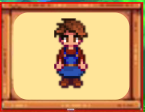
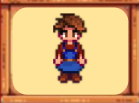
pushh

diff --git a/Harvest/src/mainMenu/ChooseGenderScreen.java b/Harvest/src/mainMenu/ChooseGenderScreen.java
@@ -8,18 +8,35 @@ import guiTeacher.userInterfaces.ClickableScreen;
 
 public class ChooseGenderScreen extends ClickableScreen implements Runnable {
 
+//	CustomImageButton
+	private Graphic girl;
+	private Graphic boy;
+	private Graphic back;
 
 	public ChooseGenderScreen(int width, int height) {
 		super(width, height);
 		Thread app = new Thread(this);
 		app.start();
 	}
+	
+//	public void resize(int w, int h){
+//		back.loadImages("resources/background.png", w, h);
+//		back.update();
+//		girl.setX(w/2-girl.getWidth());
+//		girl.setY(h/2-girl.getHeight());
+//		boy.setX(w/2+boy.getWidth());
+//		boy.setY(h/2+boy.getHeight());
+//		super.resize(w, h);
+//	}
 
 	@Override
 	public void initAllObjects(List<Visible> viewObjects) {
-		Graphic back = new Graphic(0,0,1,"resources/background.png");
+		back = new Graphic(0,0,getWidth(),getHeight,"resources/background.png");
 		viewObjects.add(back);
-
+		girl = new Graphic(350,350, 150,150,"resources/girlButton.png");
+		viewObjects.add(girl);
+		boy = new Graphic(550,350, 150,150,"resources/boyButton.png");
+		viewObjects.add(boy);
 	}
 
 	@Override

diff --git a/Harvest/src/mainMenu/MainMenu.java b/Harvest/src/mainMenu/MainMenu.java
@@ -12,11 +12,14 @@ public class MainMenu extends GUIApplication {
 	@Override
 	public void initScreen() {
 		MenuScreenLubna screen = new MenuScreenLubna(getWidth(), getHeight());
-		setScreen(screen);
+		ChooseGenderScreen screen2 = new ChooseGenderScreen(getWidth(), getHeight());
+		setScreen(screen2);
 	}
+	
+	
 
 	public static void main(String[] args) {
-		MainMenu s = new MainMenu(800,600);
+		MainMenu s = new MainMenu(870,550);
 		Thread runner = new Thread(s);
 		runner.start();
 	}

diff --git a/Harvest/src/mainMenu/MenuScreenLubna.java b/Harvest/src/mainMenu/MenuScreenLubna.java
@@ -18,7 +18,7 @@ public class MenuScreenLubna extends ClickableScreen implements Runnable {
 
 	@Override
 	public void initAllObjects(List<Visible> viewObjects) {
-		Graphic back = new Graphic(0,0,1,"resources/background.png");
+		Graphic back = new Graphic(0,0,.5,"resources/background.png");
 		viewObjects.add(back);
 
 	}
